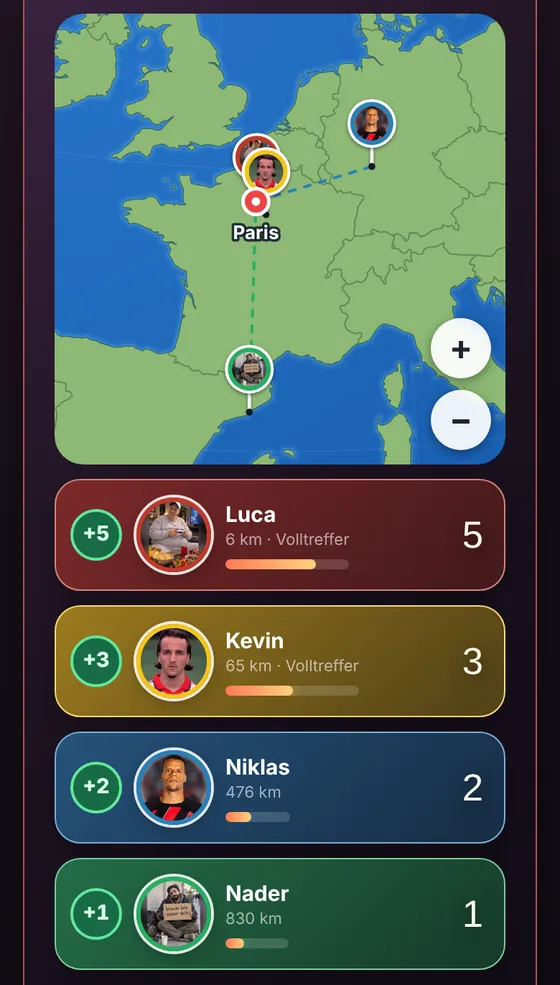
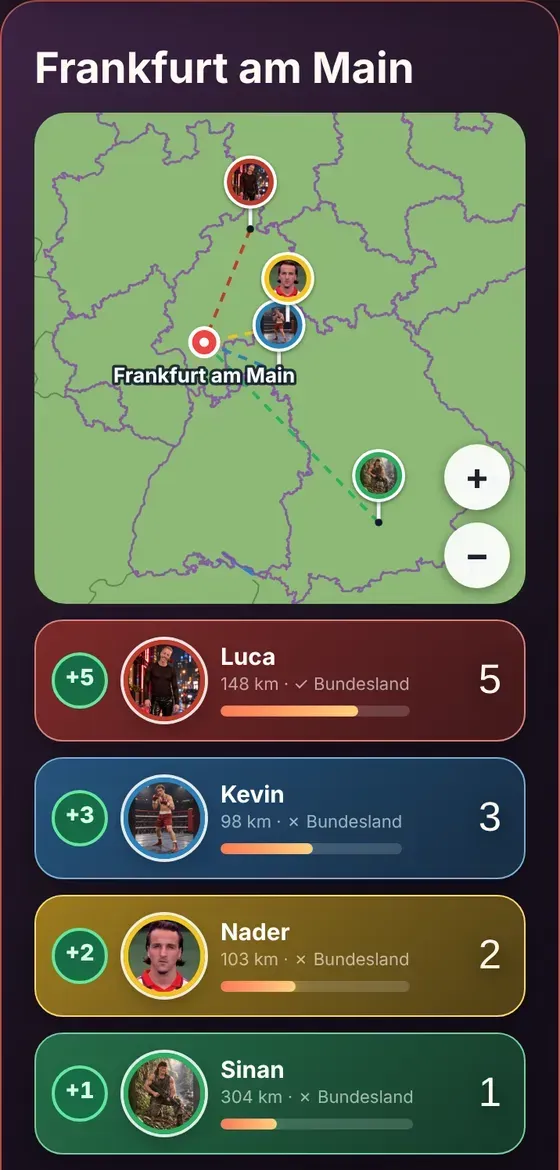
v417: Wo liegts - Land/Bundesland vor Kilometer, Anleitungs-Button im Spiel, echte Anleitungs-Screenshots (Schnellschuss, Revierkampf, Kartentausch)
Claude-Session: https://claude.ai/code/session_01Bq3j1UmgmmQRjdUKFtX7an

diff --git a/spiele/wo-liegts/spiel.js b/spiele/wo-liegts/spiel.js
@@ -50,8 +50,15 @@ async function ladeWelt() {
       // { land: Umriss Deutschlands, grenzen: alle Bundesland-Linien inkl. Außengrenze }
       deGrenzen = await (await fetch(new URL("./de-grenzen.json", import.meta.url))).json();
     } catch (_) { /* Bundeslandgrenzen sind optional */ }
+    let deLaender = null;
+    try {
+      // Bundesland-Flaechen (fuer "richtiges Bundesland"): { Name: Polygon/MultiPolygon }
+      deLaender = await (await fetch(new URL("./de-laender.json", import.meta.url))).json();
+    } catch (_) { /* ohne diese Daten zaehlt nur die Entfernung */ }
     welt = {
       deGrenzen,
+      deLaender,
+      laender: D3.feature(topo, topo.objects.countries).features,
       land: D3.feature(topo, topo.objects.land),
       grenzen: D3.mesh(topo, topo.objects.countries, (a, b) => a !== b),
       // Für den Deutschland-Modus: Karte ohne Deutschland (das kommt dann aus den
@@ -558,7 +565,7 @@ const VORLAGE = `
     <p class="hinweis-text">Ein Ort wird genannt - alle setzen gleichzeitig eine Stecknadel auf den Globus.
       Drehen: mit einem Finger ziehen. Zoomen: zwei Finger auseinander oder mit + / −. Nadel setzen: kurz tippen.
       Wer (Luftlinie) am nächsten dran ist, bekommt so viele Punkte wie Spieler im Raum plus einen Extrapunkt, der
-      Zweite so viele wie Spieler minus 1, der Dritte minus 2 usw. Ohne Nadel gibt es 0 Punkte. Pro Runde habt ihr 60 Sekunden.</p>
+      Zweite so viele wie Spieler minus 1, der Dritte minus 2 usw. Wer das richtige Land (bei deutschen Städten: das richtige Bundesland) getroffen hat, liegt immer vor allen, die in einem anderen gelandet sind - auch wenn deren Nadel näher an der Stadt steckt. Ohne Nadel gibt es 0 Punkte. Pro Runde habt ihr 60 Sekunden.</p>
 
     <div id="wl-modus-block" class="wl-modus-block">
       <span class="wl-modus-titel">Was wird gesucht? <small>(mehrere möglich)</small></span>
@@ -987,6 +994,55 @@ async function nadelAbschicken() {
 }
 
 // --- Auswertung -------------------------------------------------------------
+// ---- Land / Bundesland eines Punktes (einfacher Punkt-in-Polygon-Test auf Laenge/Breite)
+function inRing(lon, lat, ring) {
+  let innen = false;
+  for (let i = 0, j = ring.length - 1; i < ring.length; j = i++) {
+    const [xi, yi] = ring[i], [xj, yj] = ring[j];
+    if ((yi > lat) !== (yj > lat) && lon < ((xj - xi) * (lat - yi)) / (yj - yi) + xi) innen = !innen;
+  }
+  return innen;
+}
+function inGeometrie(lon, lat, g) {
+  if (!g) return false;
+  const polys = g.type === "Polygon" ? [g.coordinates] : g.type === "MultiPolygon" ? g.coordinates : [];
+  return polys.some((ringe) => inRing(lon, lat, ringe[0]) && !ringe.slice(1).some((loch) => inRing(lon, lat, loch)));
+}
+function bereichExakt(lat, lon, katalog) {
+  if (!welt) return null;
+  if (katalog === "de") {
+    if (!welt.deLaender) return null;
+    for (const [name, g] of Object.entries(welt.deLaender)) if (inGeometrie(lon, lat, g)) return name;
+    // Inseln und Kuestenstreifen fehlen in den Flaechen: dann zaehlt das naechstgelegene Bundesland (bis ca. 25 km)
+    let beste = null, bestD = 0.25;
+    const k = Math.cos((lat * Math.PI) / 180);
+    for (const [name, g] of Object.entries(welt.deLaender)) {
+      const polys = g.type === "Polygon" ? [g.coordinates] : g.coordinates;
+      for (const ringe of polys) for (const [x, y] of ringe[0]) {
+        const dd = Math.hypot((x - lon) * k, y - lat);
+        if (dd < bestD) { bestD = dd; beste = name; }
+      }
+    }
+    return beste;
+  }
+  for (const f of welt.laender || []) if (inGeometrie(lon, lat, f.geometry)) return String(f.id);
+  return null;
+}
+// Fuer das Ziel: Kuestenorte liegen in den groben Daten manchmal knapp im Meer - dann naechstes Land in der Naehe.
+function zielBereich(s) {
+  const direkt = bereichExakt(s.lat, s.lon, s.katalog);
+  if (direkt) return direkt;
+  for (const r of [0.15, 0.3, 0.5, 0.8]) {
+    for (let a = 0; a < 8; a++) {
+      const w = (a * Math.PI) / 4;
+      const b = bereichExakt(s.lat + Math.sin(w) * r, s.lon + Math.cos(w) * r, s.katalog);
+      if (b) return b;
+    }
+  }
+  return null;
+}
+function bereichWort(katalog) { return katalog === "de" ? "Bundesland" : "Land"; }
+
 // Rang nach Entfernung (Gleichstand = gleicher Rang); Punkte: Sieger n + 1, dann n - 1, n - 2 ...
 // Wer nichts gesetzt hat: 0. "Volltreffer" (unter 100 km, deutsche Städte unter 50 km) wird nur angezeigt.
 function bewerte(tipps) {
@@ -994,15 +1050,22 @@ function bewerte(tipps) {
   const n = spielerListe.length;
   const mit = [];
   const ohne = [];
+  // Wer das richtige Land (bei deutschen Staedten: Bundesland) getroffen hat, liegt immer vor allen anderen -
+  // egal, wie viele Kilometer die anderen naeher dran waeren.
+  const ziel = s ? zielBereich(s) : null;
   for (const sp of spielerListe) {
     const t = tipps.find((x) => x.spielerId === sp.id);
-    if (t && s) mit.push({ id: sp.id, km: entfernungKm(t.lat, t.lon, s.lat, s.lon), lat: t.lat, lon: t.lon });
+    if (t && s) {
+      const richtig = ziel ? bereichExakt(t.lat, t.lon, s.katalog) === ziel : null;
+      mit.push({ id: sp.id, km: entfernungKm(t.lat, t.lon, s.lat, s.lon), lat: t.lat, lon: t.lon, richtigBereich: richtig });
+    }
     else ohne.push({ id: sp.id, km: null, punkte: 0, rang: null, volltreffer: false });
   }
-  mit.sort((a, b) => a.km - b.km);
+  const gruppe = (e) => (e.richtigBereich === false ? 1 : 0);
+  mit.sort((a, b) => gruppe(a) - gruppe(b) || a.km - b.km);
   let rang = 1;
   mit.forEach((e, i) => {
-    if (i > 0 && Math.round(e.km) > Math.round(mit[i - 1].km)) rang = i + 1;
+    if (i > 0 && (gruppe(e) !== gruppe(mit[i - 1]) || Math.round(e.km) > Math.round(mit[i - 1].km))) rang = i + 1;
     e.rang = rang;
     e.volltreffer = e.km <= (s && s.katalog === "de" ? VOLLTREFFER_KM_DE : VOLLTREFFER_KM);
     e.punkte = punkteFuerRang(rang, n);   // Sieger n + 1, dann n - 1, n - 2 ...; Volltreffer ist nur noch eine Anzeige
@@ -1074,7 +1137,7 @@ function rendereErgebnisListe(neuPassen = false) {
     if (!sp) return;
     const extra = e.km == null
       ? "Keine Nadel gesetzt"
-      : `${kmText(e.km)}${e.volltreffer ? " · Volltreffer" : ""}`;
+      : `${kmText(e.km)}${e.volltreffer ? " · Volltreffer" : ""}${e.richtigBereich === true ? ` · ✓ ${bereichWort(s.katalog)}` : e.richtigBereich === false ? ` · ✗ ${bereichWort(s.katalog)}` : ""}`;
     const li = document.createElement("li");
     li.innerHTML = spielerKarte(sp.name, sp.farbe, sp.icon, `+${e.punkte}`, { extra, punkteRechts: sp.punkte ?? 0 });
     liste.appendChild(li);

diff --git a/stil.css b/stil.css
@@ -1460,6 +1460,18 @@
        (border-radius:50%), Bildgroesse wie vor v95 (siehe ausfuehrlicher
        Kommentar bei #start-screen .app-icon). */
     .spiel-logo-badge img { width: 50px; height: 50px; object-fit: contain; object-position: center; border-radius: 50%; }
+    /* Zeile oben rechts: Anleitung (nur im Spiel sichtbar) + Verlassen/Spielauswahl */
+    .top-zeile { display: flex; justify-content: flex-end; align-items: center; gap: 8px; width: 100%; }
+    .spiel-kopf-anl { display: none; }
+    #top-bar.im-spiel button.spiel-kopf-anl {
+      display: inline-flex; align-items: center; justify-content: center; gap: 6px; align-self: auto;
+      min-width: 38px; height: 34px; margin: 0; padding: 0 12px; border-radius: 999px; cursor: pointer;
+      background: rgba(255,255,255,.14); border: 1px solid rgba(255,255,255,.3); color: #fff;
+      font: 700 .8rem/1 "Inter", system-ui, sans-serif; box-shadow: none;
+    }
+    #top-bar.im-spiel button.spiel-kopf-anl:hover, #top-bar.im-spiel button.spiel-kopf-anl:active, #top-bar.im-spiel button.spiel-kopf-anl:focus { background: rgba(255,255,255,.26); color: #fff; }
+    #top-bar.im-spiel button.spiel-kopf-anl span { display: none; }
+    @media (min-width: 430px) { #top-bar.im-spiel button.spiel-kopf-anl span { display: inline; } }
     .spiel-kopf-titel strong {
       color: #fff; font-family: "Barlow Condensed", sans-serif; font-style: italic;
       font-size: clamp(2.35rem, 11vw, 3.2rem); line-height: .9; letter-spacing: -.025em;

diff --git a/spiele/anleitungen-daten.js b/spiele/anleitungen-daten.js
@@ -683,6 +683,11 @@ ANLEITUNGEN["wo-liegts"] = [
     s: () => unifiedRang([["Luca", "12 km · 5", 1], ["Du", "80 km · 3", 0], ["Niklas", "410 km · 2", 2], ["Nader", "keine · 0", 3]])
   },
   {
+    t: "Richtiges Land zählt zuerst",
+    x: ["Bei **Städten und Sehenswürdigkeiten** liegen immer die vorn, die das **richtige Land** getroffen haben - auch wenn jemand in einem anderen Land näher an der Stadt steckt. Erst **innerhalb** dieser Gruppe zählen die Kilometer.", "Bei **deutschen Städten** gilt das Gleiche mit dem **Bundesland**: Ist Frankfurt am Main gesucht, schlägt eine Nadel im Norden Hessens jede Nadel in Nordbayern, auch wenn die weniger Kilometer entfernt ist."],
+    s: () => unifiedRang([["Du", "300 km · Land richtig", 0], ["Luca", "40 km · Land falsch", 1], ["Niklas", "keine · 0", 2]])
+  },
+  {
     t: "Volltreffer",
     x: ["Liegt deine Nadel **unter 100 km** daneben (bei **deutschen Städten unter 50 km**), steht im Ergebnis **Volltreffer**.", "Der Extrapunkt gehört aber nur dem Sieger der Runde. Wo liegt's braucht **mindestens 2 Spieler**."],
     s: () => globus(110, 90, 54) + stecknadel(104, 84, "#4ade80") + stecknadel(112, 90) + T(235, 70, "Volltreffer!", 14, "#bbf7d0", 800) + T(235, 92, "unter 100 km", 11, "#fff", 600)

diff --git a/app.js b/app.js
@@ -15,7 +15,7 @@ import {
 // Spiel-Fixes (spiele/<id>/spiel.js) verzoegert oder gar nicht mit.
 import { SPIELE, spielInfo } from "./spiele/register.js?v=335";
 
-export const APP_VERSION = "v416";
+export const APP_VERSION = "v417";
 const appVersion = document.getElementById("app-version");
 appVersion.textContent = "Version " + APP_VERSION;
 
@@ -24,6 +24,14 @@ document.getElementById("btn-spiele-anleitung")?.addEventListener("click", async
   try {
     const m = await import("./spiele/anleitungen.js?v=" + APP_VERSION.slice(1));
     m.oeffneAnleitungen();
+  } catch (e) { console.error("Anleitungen:", e); }
+});
+
+// Im Spiel: Button "Anleitung" im Spielkopf oeffnet direkt die Anleitung des laufenden Spiels
+document.getElementById("btn-spiel-anleitung")?.addEventListener("click", async () => {
+  try {
+    const m = await import("./spiele/anleitungen.js?v=" + APP_VERSION.slice(1));
+    m.oeffneAnleitungen(document.body.dataset.spiel || null);
   } catch (e) { console.error("Anleitungen:", e); }
 });
 

diff --git a/spiele/anleitungen.js b/spiele/anleitungen.js
@@ -3,7 +3,7 @@
 //  Wird erst beim Klick auf "Spiele" (Startseite) geladen.
 // ============================================================================
 import { SPIELE } from "./register.js?v=335";
-import { ANLEITUNGEN, szene } from "./anleitungen-daten.js?v=411";
+import { ANLEITUNGEN, szene } from "./anleitungen-daten.js?v=417";
 
 const esc = (s) => String(s).replace(/&/g, "&amp;").replace(/</g, "&lt;").replace(/>/g, "&gt;");
 const fett = (s) => esc(s).replace(/\*\*(.+?)\*\*/g, "<strong>$1</strong>");
@@ -18,7 +18,7 @@ function vorladen(pfad) {
   img.decoding = "async";
   img.src = pfad;
 }
-const fotoPfad = (id, nr) => `bilder/anleitung/${id}-${nr + 1}.webp?v=411`;
+const fotoPfad = (id, nr) => `bilder/anleitung/${id}-${nr + 1}.webp?v=417`;
 function alleKachelnVorladen() { SPIELE.forEach((s) => vorladen(s.bild)); }
 function seitenVorladen(id) { (ANLEITUNGEN[id] || []).forEach((f, i) => { if (!f.ohneFoto) vorladen(fotoPfad(id, i)); }); }
 

diff --git a/index.html b/index.html
@@ -30,7 +30,10 @@
 <body>
 
   <div id="top-bar" hidden>
-    <button id="btn-verlassen">Raum verlassen</button>
+    <div class="top-zeile">
+      <button type="button" id="btn-spiel-anleitung" class="spiel-kopf-anl" aria-label="Anleitung zu diesem Spiel" title="Anleitung">📖<span>Anleitung</span></button>
+      <button id="btn-verlassen">Raum verlassen</button>
+    </div>
     <!-- v112: gemeinsame Fortschrittsanzeige (z. B. "2/8") oben rechts im
          Spielkopf - jedes Spielmodul befüllt sie über api.fortschritt(text). -->
     <span id="spiel-kopf-fortschritt" class="spiel-kopf-fortschritt" hidden></span>

diff --git a/sw.js b/sw.js
@@ -4,7 +4,7 @@
 // Nur dann wirft der Browser den alten Zwischenspeicher weg und alle Spieler
 // bekommen zuverlässig die neue Version. Das ist der einzige Handgriff, den man
 // nach dem Bearbeiten von Dateien nicht vergessen darf.
-const CACHE_NAME = "trollhouse-v416";
+const CACHE_NAME = "trollhouse-v417";
 
 const DATEIEN = [
   "./",
@@ -62,6 +62,7 @@ const DATEIEN = [
   "spiele/wo-liegts/geo.js",
   "spiele/wo-liegts/welt.json",
   "spiele/wo-liegts/de-grenzen.json",
+  "spiele/wo-liegts/de-laender.json",
   "spiele/laenderumrisse/laender.json",
   "spiele/stimmts/spiel.js",
   "spiele/stimmts/fragen.json",

diff --git a/spiele/register.js b/spiele/register.js
@@ -18,7 +18,7 @@
 // in der Olympiade trotz Fix in v201/v202 teils noch bestehen lassen.
 // WICHTIG: bei jedem Versionssprung hier UND in app.js (Import von
 // register.js) mit hochzaehlen.
-const SPIEL_VERSION = "416";
+const SPIEL_VERSION = "417";
 
 export const SPIELE = [
   {
